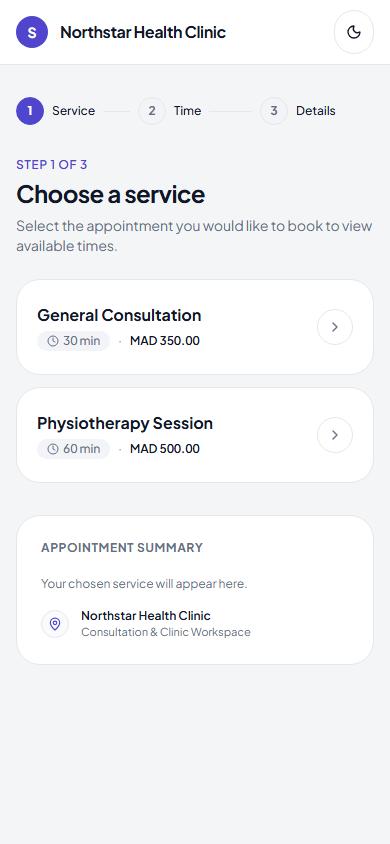
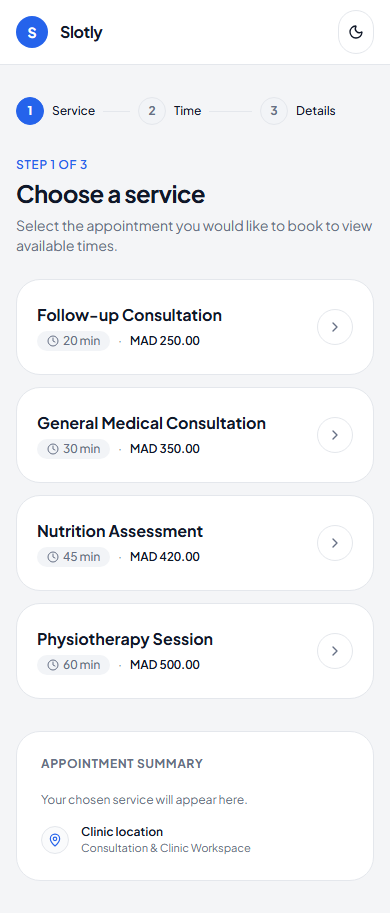
test: align browser journeys with realistic demo data

diff --git a/src/slotly-web/e2e/happy-path.spec.ts b/src/slotly-web/e2e/happy-path.spec.ts
@@ -9,7 +9,7 @@ function nextWeekday() {
 
 test("customer books an available appointment", async ({ page }) => {
   await page.goto("/book/northstar-health");
-  await page.getByRole("button", { name: /General Consultation/i }).click();
+  await page.getByRole("button", { name: /General Medical Consultation/i }).click();
   await page.getByLabel("Date").fill(nextWeekday());
   const slots = page.locator("button.tabular-nums");
   await expect(slots.first()).toBeVisible();
@@ -28,7 +28,7 @@ test("customer books an available appointment", async ({ page }) => {
 test("tenant owner signs in and opens booking management", async ({ page }) => {
   await page.goto("/login");
   await page.getByLabel("Workspace").fill("northstar-health");
-  await page.getByLabel("Email address").fill("amira@northstar.example");
+  await page.getByLabel("Email address").fill("amira.benali@northstarhealth.ma");
   await page.getByLabel("Password").fill("Password123!");
   await page.getByRole("button", { name: "Sign in" }).click();
   await expect(

diff --git a/src/slotly-web/e2e/screenshots.spec.ts b/src/slotly-web/e2e/screenshots.spec.ts
@@ -12,7 +12,7 @@ for (const theme of ["light", "dark"] as const) {
         theme,
       );
       await page.goto("/book/northstar-health");
-      await page.getByText("General Consultation").waitFor();
+      await page.getByText("General Medical Consultation").waitFor();
       await page.screenshot({
         path: `../../docs/screenshots/booking-${viewport.name}-${theme}.png`,
         fullPage: true,
@@ -27,7 +27,7 @@ for (const theme of ["light", "dark"] as const) {
       );
       await page.goto("/login");
       await page.getByLabel("Workspace").fill("northstar-health");
-      await page.getByLabel("Email address").fill("amira@northstar.example");
+      await page.getByLabel("Email address").fill("amira.benali@northstarhealth.ma");
       await page.getByLabel("Password").fill("Password123!");
       await page.getByRole("button", { name: "Sign in" }).click();
       await page.getByRole("heading", { name: /Good morning/i }).waitFor();

diff --git a/src/slotly-web/src/pages/admin.tsx b/src/slotly-web/src/pages/admin.tsx
@@ -110,7 +110,7 @@ export function LoginPage() {
     resolver: zodResolver(schema),
     defaultValues: {
       tenantSlug: "northstar-health",
-      email: "amira@northstar.example",
+      email: "amira.benali@northstarhealth.ma",
       password: "",
     },
   });

diff --git a/README.md b/README.md
@@ -194,7 +194,7 @@ It refuses to overwrite them unless `-Force` is supplied explicitly.
 | Service | URL | Description |
 | :--- | :--- | :--- |
 | **Customer Booking Demo** | <http://localhost:3000/book/northstar-health> | Public booking flow for Northstar Health Clinic |
-| **Tenant Admin Portal** | <http://localhost:3000/login> | Admin sign-in (`amira@northstar.example` / `Password123!`) |
+| **Tenant Admin Portal** | <http://localhost:3000/login> | Admin sign-in (`amira.benali@northstarhealth.ma` / `Password123!`) |
 | **API Swagger UI** | <http://localhost:8080/swagger> | Interactive OpenAPI specification and test console |
 | **API Health / Readiness** | <http://localhost:8080/health/ready> | Deep health check (DB, Hangfire, SMTP) |
 | **Mailpit Web UI** | <http://localhost:8025> | Local email inbox catching booking confirmations |

diff --git a/docs/api.md b/docs/api.md
@@ -61,7 +61,7 @@ Tenant-scoped endpoints resolve the active tenant through one of the following m
 ```json
 {
   "tenantSlug": "northstar-health",
-  "email": "amira@northstar.example",
+  "email": "amira.benali@northstarhealth.ma",
   "password": "Password123!"
 }
 ```
